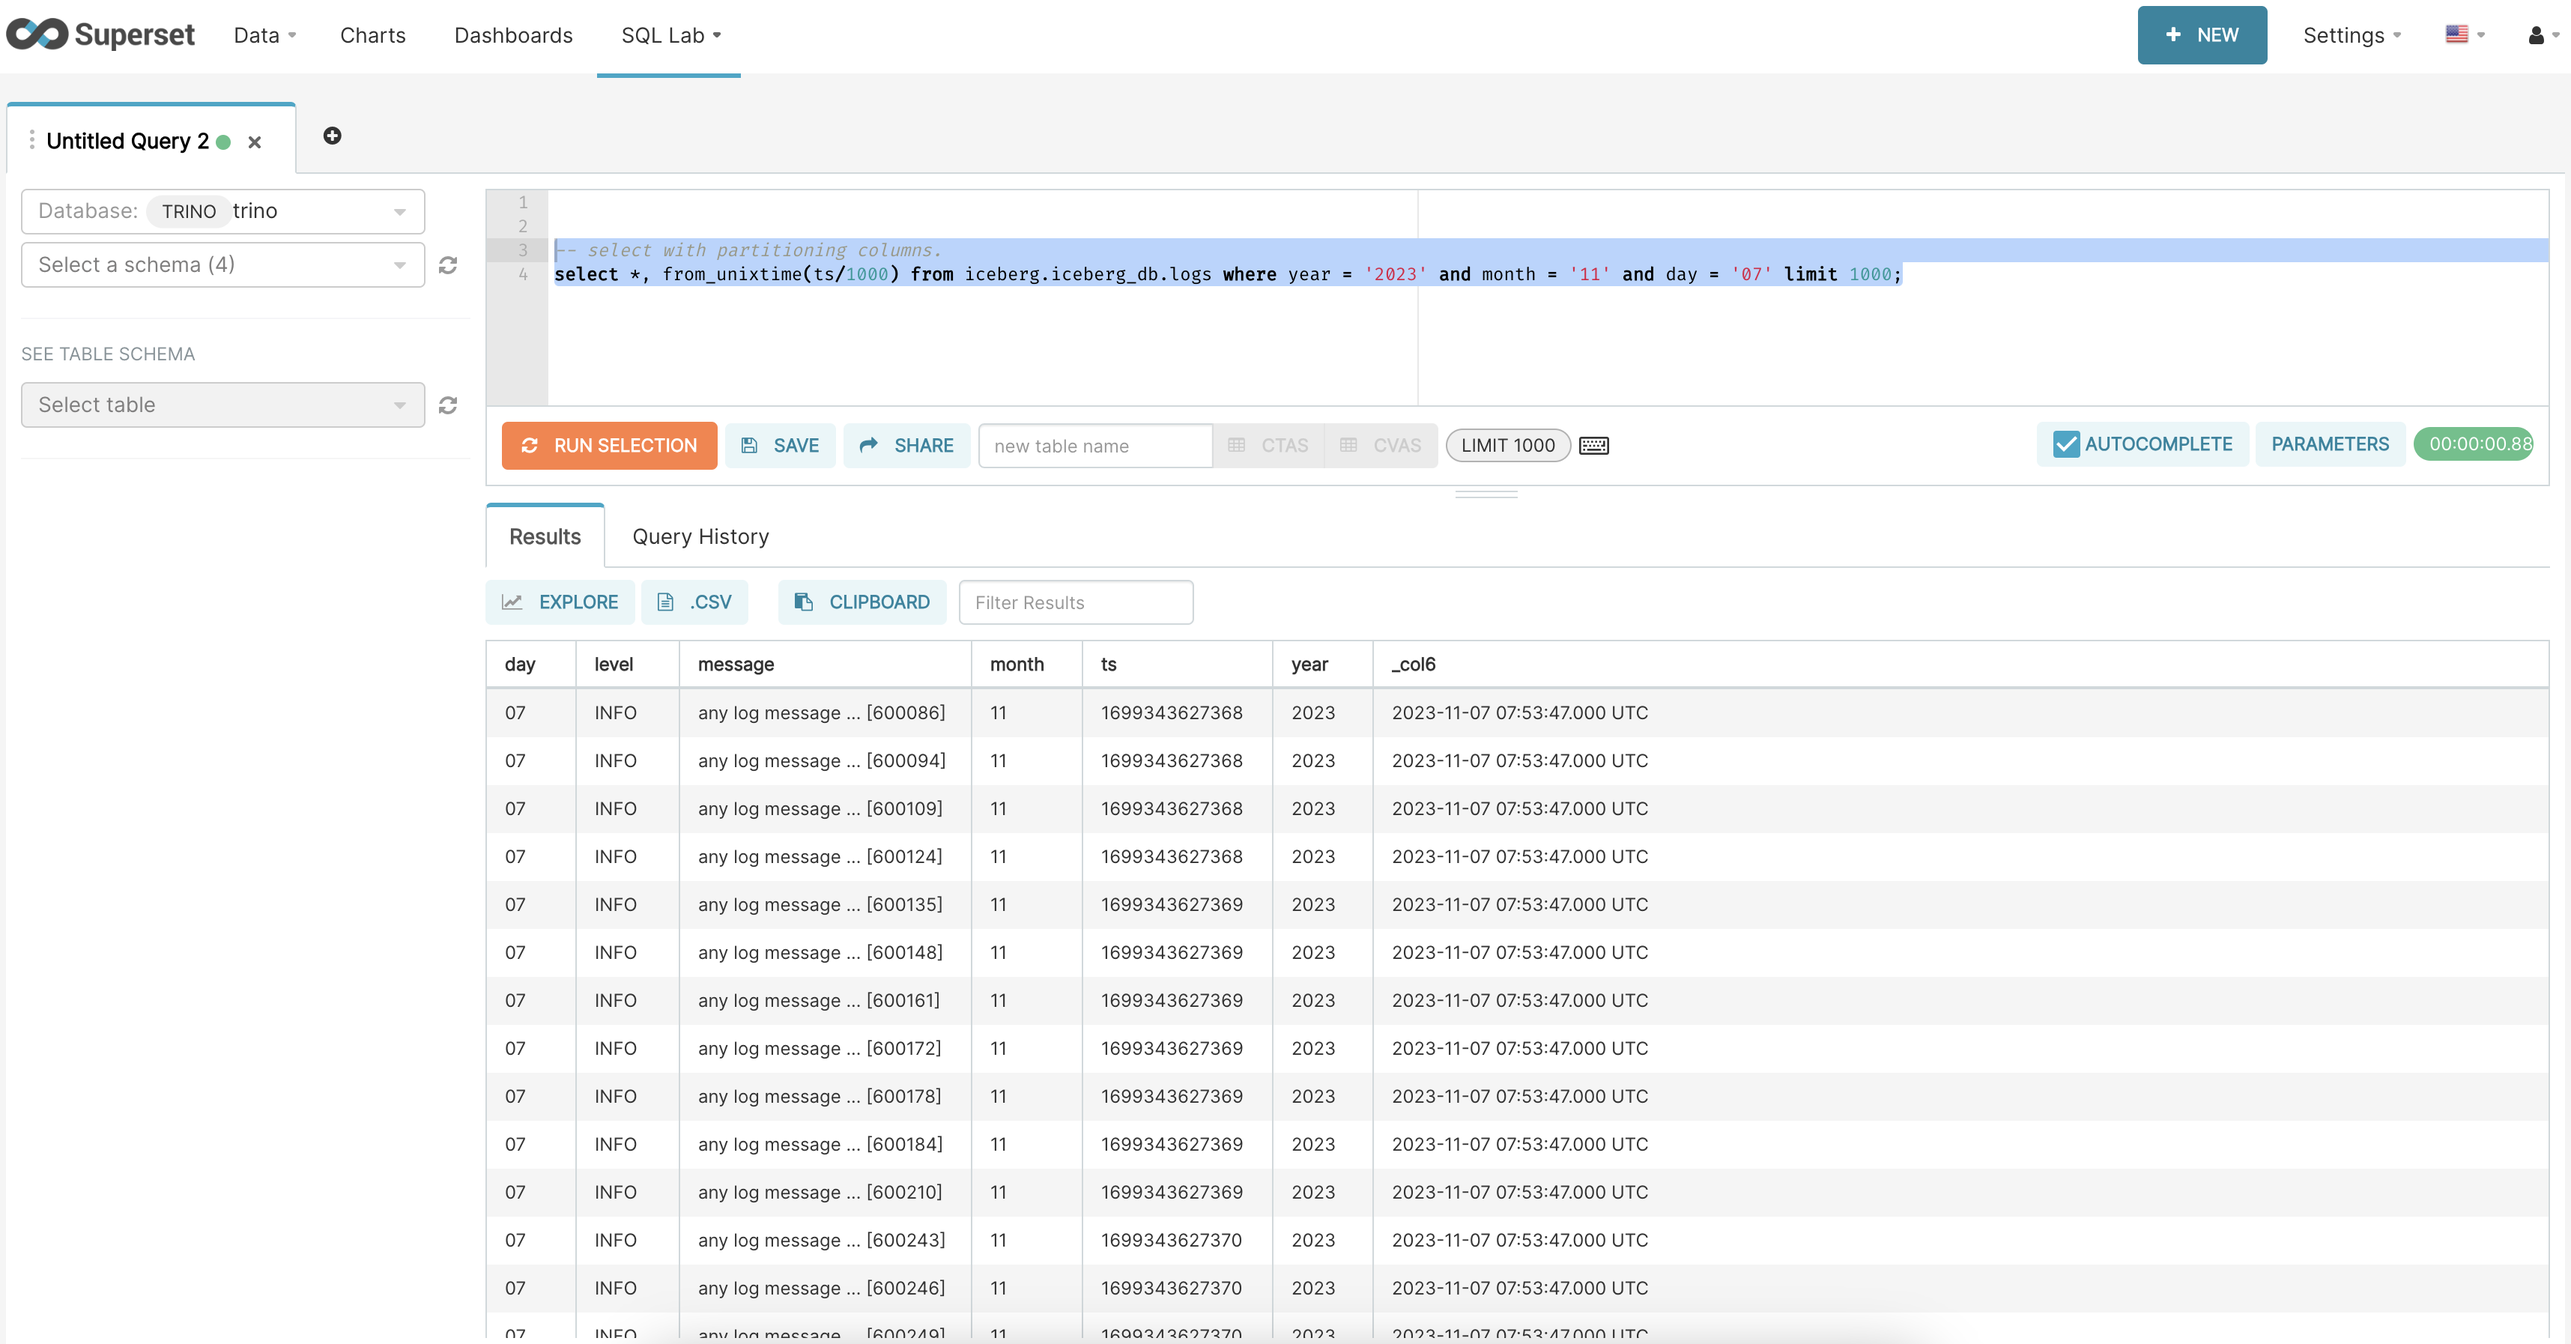
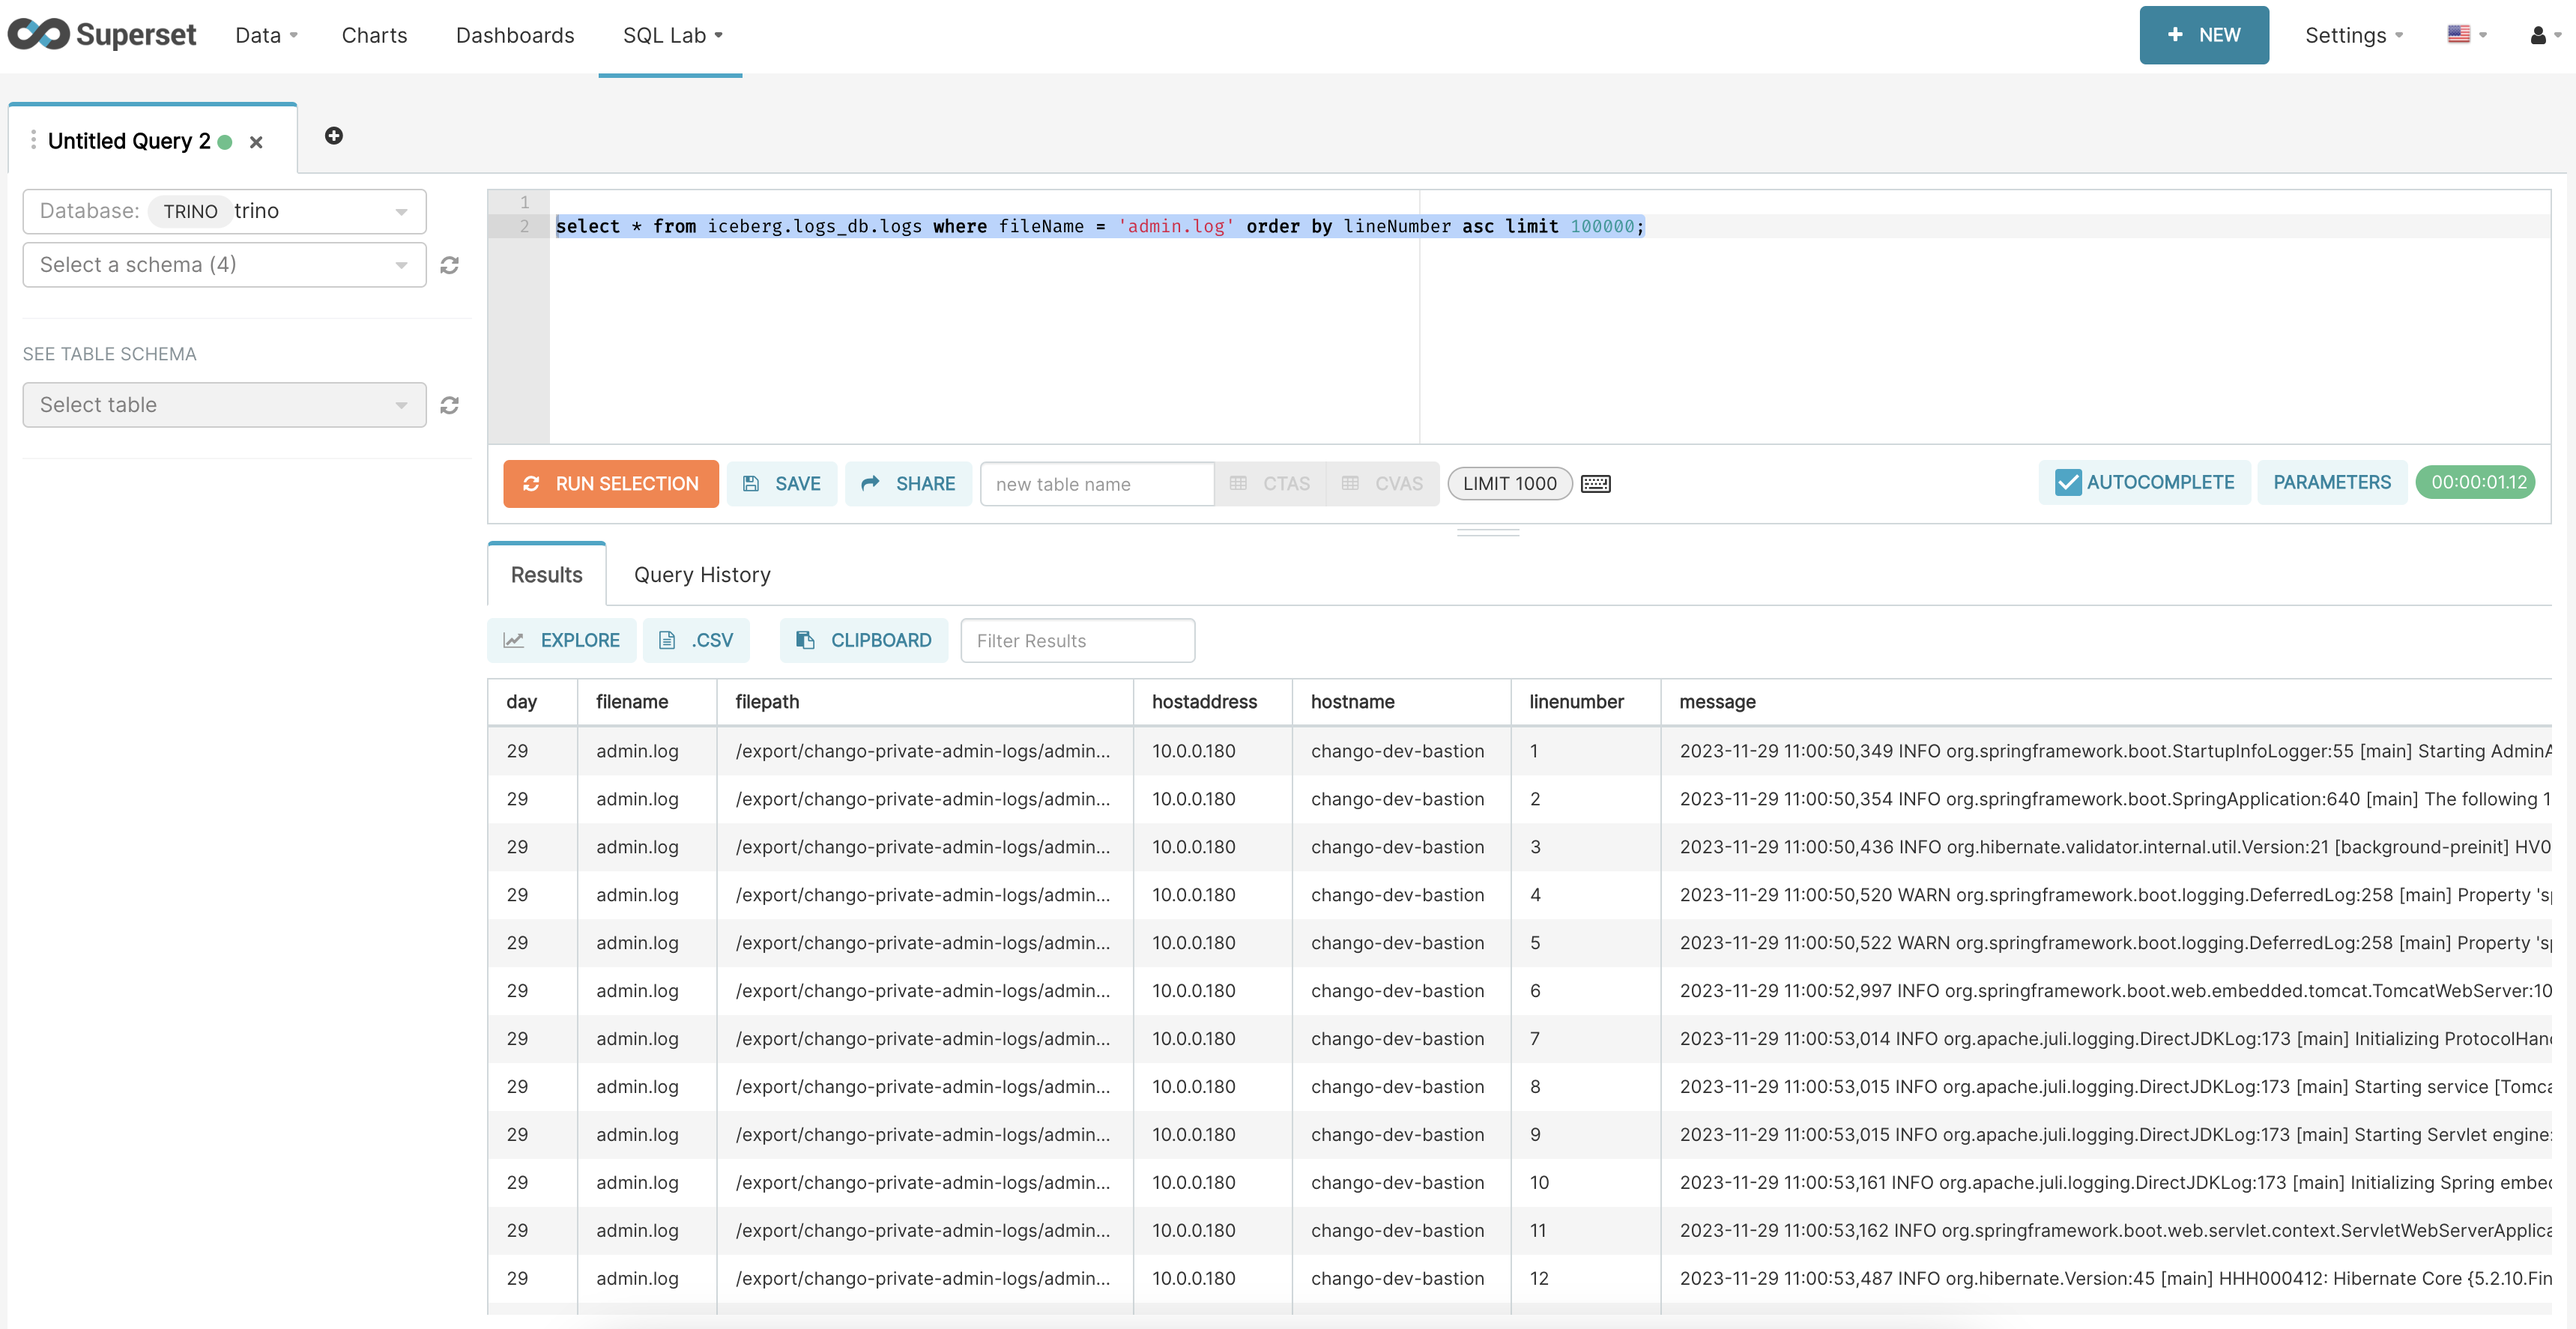
reading log files using chango log added.

diff --git a/docs/user-guide/chango-log.md b/docs/user-guide/chango-log.md
@@ -1,0 +1,132 @@
+# Reading Log Files Using Chango Log
+
+[Chango Log](https://github.com/cloudcheflabs/chango-log) is a log agent to read local log files and send logs 
+to Chango to analyze logs.
+
+## Create Iceberg Table
+
+Before sending logs to Chango, you need to create Iceberg table for logs with trino clients like `Superset`.
+
+```agsl
+-- create schema.
+CREATE SCHEMA IF NOT EXISTS iceberg.logs_db;
+
+
+-- create iceberg table.
+CREATE TABLE iceberg.logs_db.logs (
+    day varchar,
+    fileName varchar,
+    filePath varchar,
+    hostAddress varchar,
+    hostName varchar,
+    lineNumber bigint,
+    message varchar,
+    month varchar,
+    readableTs varchar,
+    ts bigint,
+    year varchar 
+)
+WITH (
+    partitioning=ARRAY['year', 'month', 'day'],
+    format = 'PARQUET'
+);
+```
+
+## Install Chango Log
+
+Download `Chango Log` distribution package.
+
+```agsl
+curl -L -O https://github.com/cloudcheflabs/chango-log/releases/download/1.0.0/chango-log-1.0.0-linux-x64.tar.gz;
+```
+
+Untar Chango Log file and move to Chango Log directory.
+
+```agsl
+tar zxvf chango-log-1.0.0-linux-x64.tar.gz;
+cd chango-log-1.0.0-linux-x64;
+```
+
+## Configure Chango Log
+
+Modify `conf/configuration.yml`.
+
+```agsl
+chango:
+  token: any-chango-credential
+  dataApiUrl: http://any-data-api-endpoint
+  schema: logs_db
+  table: logs
+  batchSize: 10000
+  interval: 1000
+
+logs:
+  - path: /log-dir-1
+    file: rest*.log
+  - path: /log-dir-2
+    file: admin*.log
+  - path: /log-dir-3
+
+task:
+  log:
+    interval: 20000
+    threads: 3
+
+rocksdb:
+  directory: /tmp/rocksdb
+```
+
+You need to configure the following properties to send logs to Chango.
+
+- `chango.token`: Chango Credential which is necessary to access `Chango Data API`. See <a href="../../user-guide/cred">Get Chango Credential</a>.
+- `chango.dataApiUrl`: `Chango Data API` endpoint URL.
+
+You can configure multiple log directories in which all the log files will be read.
+
+- `logs[*].path`: Log directory path.
+- `logs[*].file`: Log file name pattern. All the log files matched with this pattern will be read in the log directory. If this property is omitted, all the log files will be read without pattern matching.
+
+
+## Run Chango Log
+
+Start `Chango Log` to read local log files and send logs to Chango.
+
+```agsl
+bin/start-chango-log.sh
+```
+
+You can see the logs of `Chango Log` in the path `/tmp/chango-log/chango-log.log`.
+
+
+To stop `Chango Log`, run the following.
+
+```agsl
+bin/stop-chango-log.sh
+```
+
+## Run Queries to Analyze Logs
+
+Run queries to analyze logs saved in Iceberg table `logs`.
+
+For example.
+
+```agsl
+select * from iceberg.logs_db.logs where fileName = 'admin.log' order by lineNumber asc limit 100000;
+```
+
+
+If the query is run with `Superset`, then it looks like this.
+
+<img width="900" src="../../images/user-guide/select-logs.png" />
+
+
+
+
+
+
+
+
+
+
+
+
